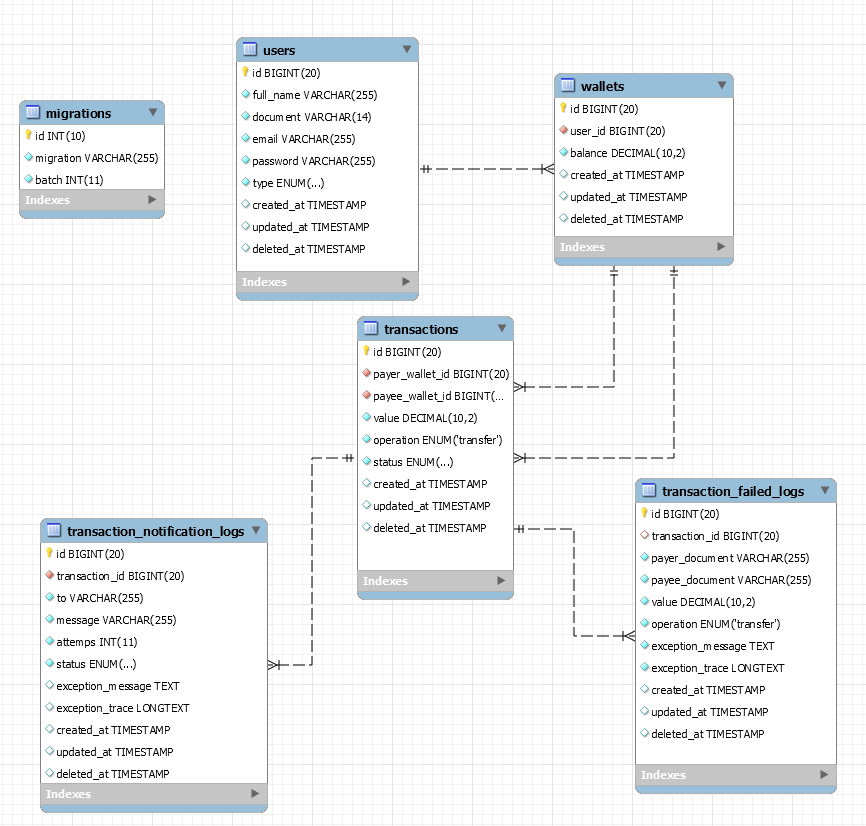
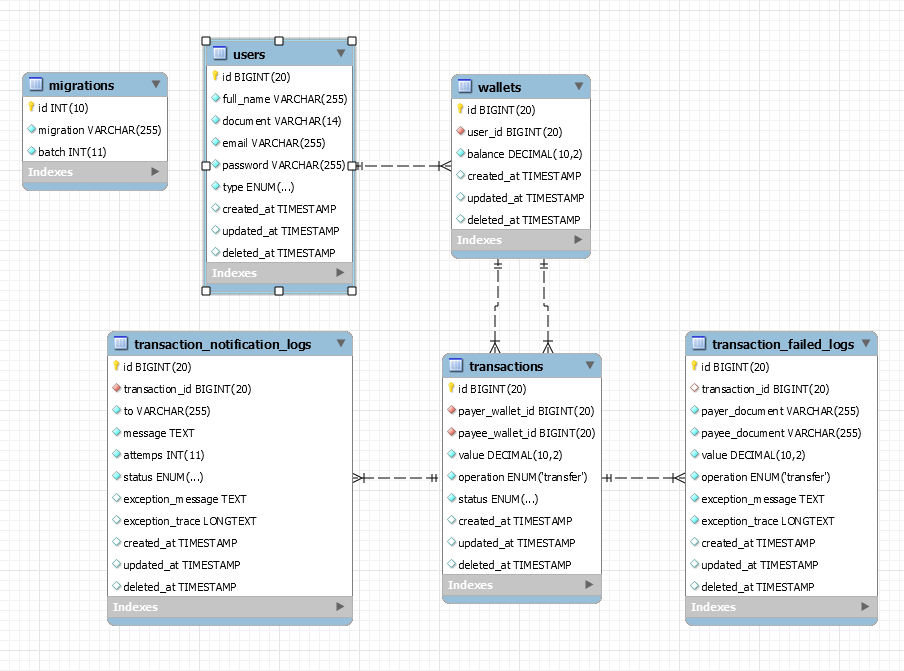
Refactor: Migrate transaction_notification_logs

Changed region(s): [[0.0, 0.0298, 0.9977, 0.9836], [0.7483, 0.3577, 0.7794, 0.3875], [0.6859, 0.4471, 0.7171, 0.4769]]

diff --git a/database/migrations/2021_10_19_211451_create_transaction_notification_logs_table.php b/database/migrations/2021_10_19_211451_create_transaction_notification_logs_table.php
@@ -17,7 +17,7 @@ class CreateTransactionNotificationLogsTable extends Migration
             $table->id();
             $table->unsignedBigInteger('transaction_id');
             $table->string('to');
-            $table->string('message');
+            $table->text('message');
             $table->integer('attemps');
             $table->enum('status', ['success', 'failed']);
             $table->text('exception_message')->nullable();
